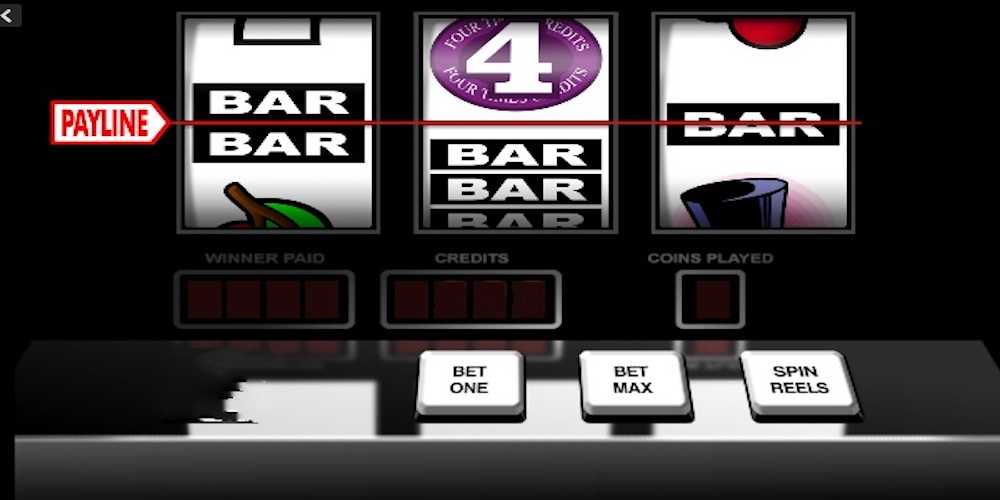
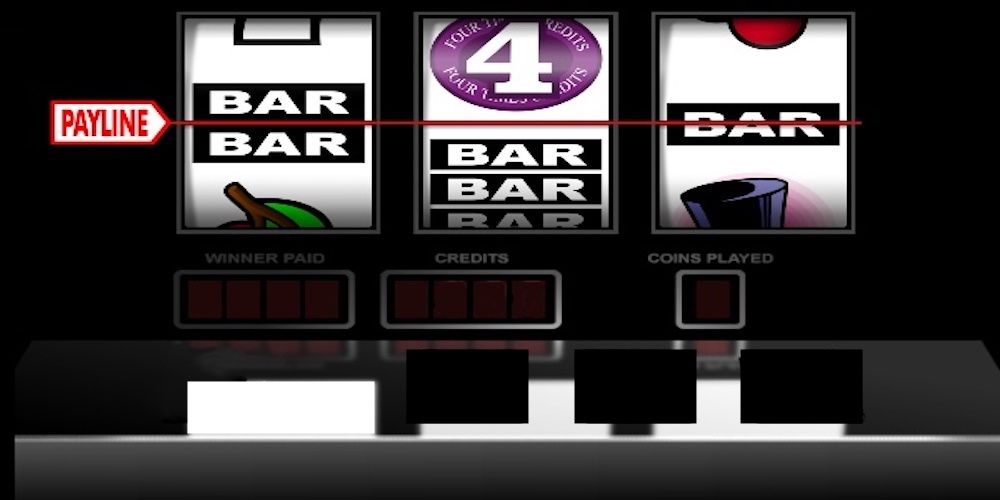
Slot machine layout fixed. Working on spinning reels

diff --git a/SlotsGame/Slots.html b/SlotsGame/Slots.html
@@ -3,18 +3,23 @@
 <meta name="viewport" content="width=device-width, initial-scale=1.0">
 <title>Slots</title>
 <script src="./Slots.js">init();</script>
+<link href='https://fonts.googleapis.com/css?family=Montserrat' rel='stylesheet' type='text/css'>
+
 <style>
-    
+    body {
+      background-image: url('SlotsImages/background.jpg');
+    }
+
     header {
         padding: 0px;
         text-align: center;
         font-size: 35px;
-        color: black;
+        color: white;
     }
 
 
     slots {
-        
+
         padding: 100px;
         text-align: center;
         color: black;
@@ -25,25 +30,53 @@
         text-align: center;
         color: black;
     }
+    button {
+        transition: all .5s ease;
+        color: #fff;
+        border: 3px solid white;
+        font-family:'Montserrat', sans-serif;
+        text-transform: uppercase;
+        text-align: center;
+        line-height: 1;
+        font-size: 17px;
+        background-color : transparent;
+        padding: 10px;
+        outline: none;
+        border-radius: 4px;
+        position: absolute;
+        width:100;
+        height:70;
+
+    }
+    button:hover {
+        color: #001F3F;
+        background-color: #fff;
+
+    }
 
 </style>
 
 </head>
-    <body style="background-color:DarkGreen;">
-    
+    <body>
+
     <header>
         <h1>Slots!</h1>
     </header>
-    
+
     <div style="text-align:center">
         <canvas id="myCanvas" width="1000" height="500"
         style="border:1px solid #000000;">
         </canvas>
+
+        <button style="top:490;left:970;" onClick="spinReels()">SPIN REELS</button>
+
+        <button style="top:490;left:805;">BET MAX</button>
+
+        <button style="top:490;left:637;">BET ONE</button>
     </div>
-    
+
 <script>init();</script>
 
 </body>
 
 </html>
-

diff --git a/SlotsGame/Slots.js b/SlotsGame/Slots.js
@@ -1,0 +1,59 @@
+/*
+rankings:
+seven
+diamond
+cherry
+watermellon
+bars
+horseshoe
+*/
+
+var slotReel;
+var crx;
+
+function init() {
+    slotReel = ["diamond","dc", "cherry", "cs", "seven", "sb", "bars", "bw", "watermellon", "wh", "horseshoe", "hd"];
+
+    //init canvas
+    ctx = document.getElementById("myCanvas").getContext("2d");
+
+    //draw slot background
+    var background = new Image();
+    background.src = "./SlotsImages/slotmachine.jpg";
+    background.onload = function(){
+      ctx.drawImage(background,0,0);
+      drawSlot(slotReel[Math.floor(Math.random() * 12)]+".jpg", 185, 20);
+      drawSlot(slotReel[Math.floor(Math.random() * 12)]+".jpg", 425, 20);
+      drawSlot(slotReel[Math.floor(Math.random() * 12)]+".jpg", 660, 20);
+    }
+
+
+
+}
+
+/*
+  draws one slot reel
+*/
+function drawSlot(file, x, y) {
+    var reelImg = new Image();
+    reelImg.src = "./SlotsImages/" +file;
+    reelImg.onload = function(){
+      ctx.drawImage(reelImg, x, y);
+    }
+}
+
+
+function spinReels() {
+  for(var i = 0; i < 12; i++) {
+
+    drawSlot(slotReel[i]+".jpg", 185, 20);
+  }
+  for(var i = 0; i < 12; i++) {
+    drawSlot(slotReel[i]+".jpg", 425, 20);
+
+  }
+  for(var i = 0; i < 12; i++) {
+    drawSlot(slotReel[i]+".jpg", 660, 20);
+  }
+
+}
